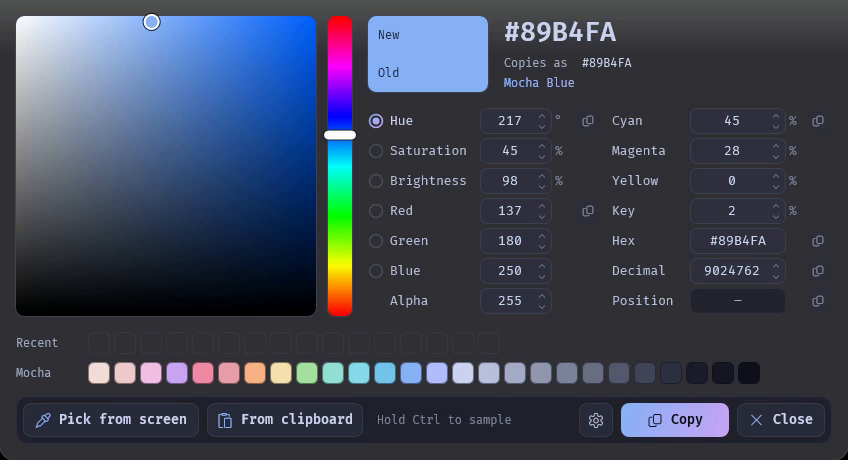
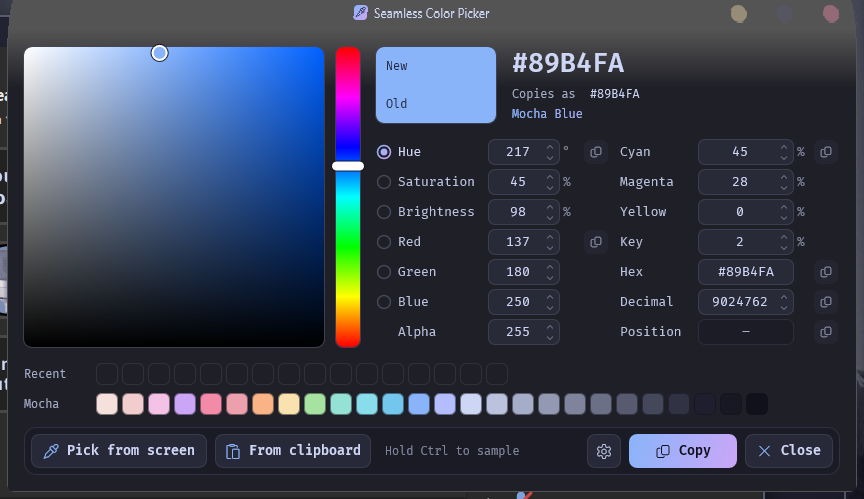
Seamless Color Picker 1.1.0: darker glass tint, hover glow verified, position drift fix

diff --git a/mods/local/seamless-color-picker/seamless-color-picker.wh.cpp b/mods/local/seamless-color-picker/seamless-color-picker.wh.cpp
@@ -2,7 +2,7 @@
 // @id              seamless-color-picker
 // @name            Seamless Color Picker
 // @description     A full color picker on a hotkey, with a screen magnifier, recent colors and one-click copy
-// @version         1.0.0
+// @version         1.1.0
 // @author          DavidHiFi, Jaex, ShareX contributors
 // @github          https://github.com/DavidHiFi
 // @homepage        https://github.com/DavidHiFi/davids-windhawk-mods
@@ -3771,7 +3771,7 @@ static void DrawPicker(ID2D1RenderTarget* rt, Res& res, bool glass) {
     if (glass) {
         rt->Clear(D2D1::ColorF(0, 0, 0, 0));
         // One tint over the page; it fades in under the native title bar so the two meet without a seam.
-        float t = g_set.tint / 100.0f * 0.62f;
+        float t = g_set.tint / 100.0f * 0.92f;
         D2D1_GRADIENT_STOP st[2] = {{0, D2DColor(m::crust, 0)}, {1, D2DColor(m::crust, t)}};
         ComPtr<ID2D1GradientStopCollection> sc;
         ComPtr<ID2D1LinearGradientBrush> br;
@@ -4174,10 +4174,13 @@ static void SavePickerState() {
     Picker& p = g_pk;
     if (!p.hwnd) return;
     SaveLast(p.cur.Argb());
-    WINDOWPLACEMENT wp{sizeof(wp)};
-    if (GetWindowPlacement(p.hwnd, &wp)) {
-        Wh_SetIntValue(L"WinX", wp.rcNormalPosition.left);
-        Wh_SetIntValue(L"WinY", wp.rcNormalPosition.top);
+    // Store the same coordinates the open path sets with SetWindowPos (outer window,
+    // virtual-desktop space). GetWindowPlacement's rcNormalPosition lives in a different
+    // space and made the window creep up a little every open/close cycle.
+    RECT wr;
+    if (GetWindowRect(p.hwnd, &wr)) {
+        Wh_SetIntValue(L"WinX", wr.left);
+        Wh_SetIntValue(L"WinY", wr.top);
         Wh_SetIntValue(L"WinSaved", 1);
     }
 }
